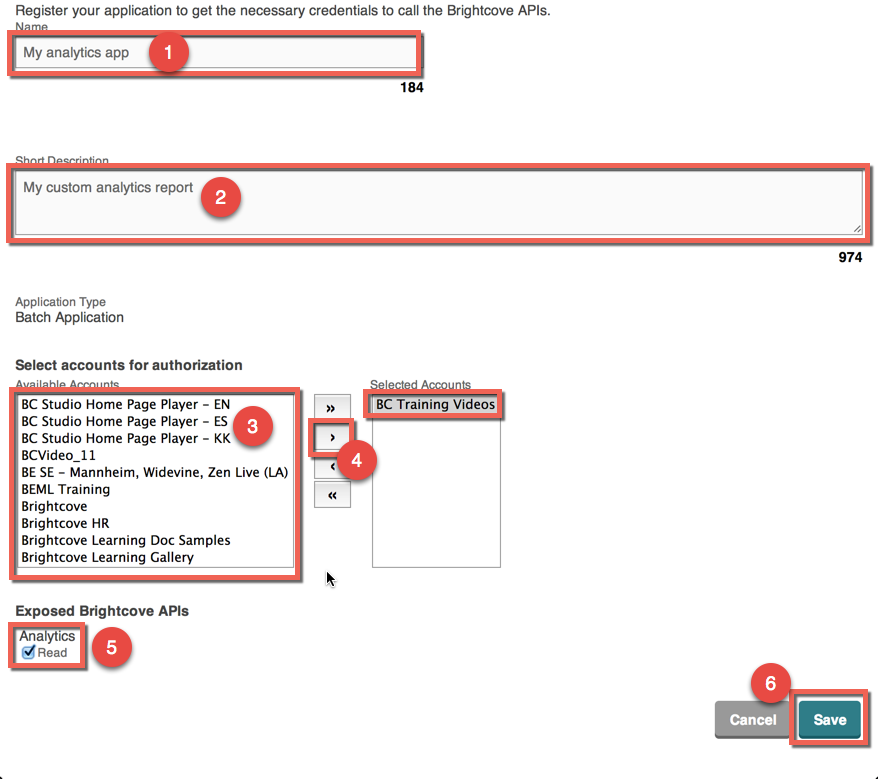
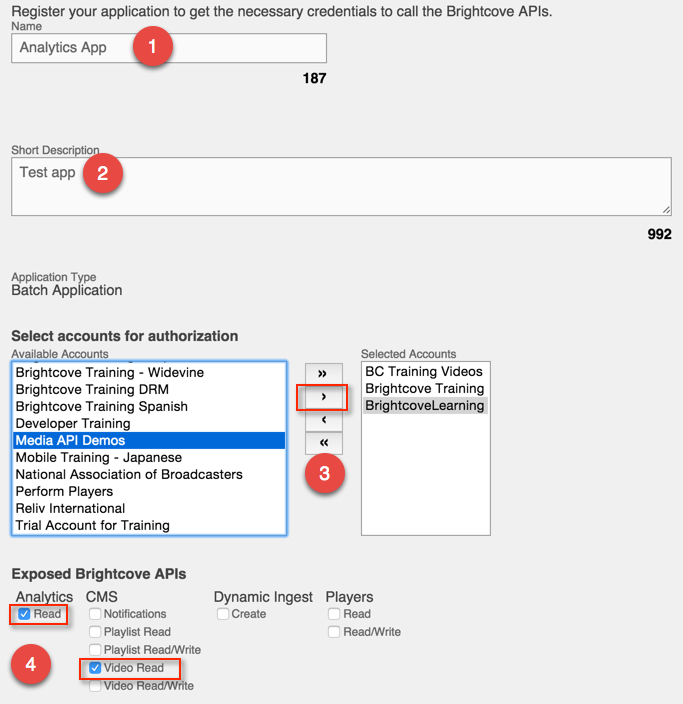
analytics api updates

diff --git a/en/video-cloud/analytics-api-v1/samples/account-level-request.html b/en/video-cloud/analytics-api-v1/samples/account-level-request.html
@@ -99,7 +99,7 @@ ga('send', 'pageview');
         request = "https://data.brightcove.com/analytics-api/videocloud/accounts/20318290001?from=1357740000000&to=1357783200000",
         chartViews = "#chartViews",
         chartEngagement = "#chartEngagement",
-        responseData = {"account" : "20318290001","metrics" : {"bytes_stored" : {"series" : {"values" : [0,0],"start" : 1357689600000,"step" : 86400000,"type" : "time"}},"bytes_in" : {"series" : {"values" : [0,0,0,0,0,0,0,0,0,0,7346996,0,0],"start" : 1357740000000,"step" : 3600000,"type" : "time"}},"video_impression" : {"series" : {"values" : [73,135,74,96,101,184,115,79,118,61,45,26,65],"start" : 1357740000000,"step" : 3600000,"type" : "time"},"alltime" : 289318},"active_media" : {"series" : {"values" : [148,149],"start" : 1357689600000,"step" : 86400000,"type" : "time"}},"bytes_player" : {"series" : {"values" : [0,0,0,0,0,0,0,0,0,0,160000000,0,0],"start" : 1357740000000,"step" : 3600000,"type" : "time"}},"video_percent_viewed" : {"series" : {"values" : [989.968559487138,3904.02470620416,1129.8510741782404,1661.1748421171305,3108.3458455128243,6338.918090625743,1641.8636978700388,569.1164779050861,1446.787564592668,883.2725377953585,920.2211538492667,833.5145951833184,1152.7269313522513],"start" : 1357740000000,"step" : 3600000,"type" : "time"},"alltime" : 4101463.512587961},"bytes_overhead" : {"series" : {"values" : [0,0,0,0,0,0,0,0,0,0,441458149,0,0],"start" : 1357740000000,"step" : 3600000,"type" : "time"}},"video_engagement" : {"series" : {"values" : [840.1528151698478,825.582705146466,804.0918282747085,787.101448274615,772.6866257821297,758.4524815593361,749.9314590967715,726.5306746782474,716.1720008169841,712.6091704306874,703.4356531009213,701.5070283455527,696.0037191050361,691.1775688038929,688.6306325357093,685.5186323912039,679.0245315745801,680.0124244525618,676.2812776155683,672.2252112376966,669.8409154954886,670.4242713690663,667.8609570305771,664.7323143899102,659.7822841107641,657.3374057235039,657.2055331076299,652.1204936937686,647.990560687092,647.8185821093373,644.431807001612,644.2730570377208,639.1429472105146,635.7928271334023,634.3194686277538,633.5721951766591,632.869774566088,632.269972916539,626.4862267182441,628.0775017694225,626.5135707238451,618.6778110288956,619.1646935179749,615.4485041436803,608.2477398011131,607.8698957138266,605.1302486689533,601.7702338345641,596.3581440201262,594.922600619195,588.7540977494484,579.5798576705943,574.0442818293918,568.5251121427591,563.7829804818925,558.7352806354704,550.3242327156133,551.1020841903194,547.5725933958827,544.50766325655,547.668558875123,544.489088139243,538.2859035155545,532.4103771698991,529.5231281701869,525.8233118954813,522.4348085023651,522.2974226398231,516.2506635527841,512.5810091622104,517.6009512715975,513.9786040759943,511.74251918039107,511.26381296148736,508.75472438544637,503.1094260459473,499.5318113259289,499.3476008460222,494.06338112773767,487.4160958456185,486.68477433499055,484.0789683599803,483.365291571174,484.2325683635288,483.815942249381,477.96686264200645,466.2989697169193,461.73321314871015,456.7596160289659,451.654134453823,444.1539182450532,438.77549861317584,433.58765916928667,419.73328720276817,404.79779415676535,385.64556561850395,359.62839039335967,321.72085334074046,268.94812977095575,195.50786078073054],"type" : "percentile"}},"video_seconds_viewed" : {"series" : {"values" : [1495,5121,1470,2473,4068,9706,2641,854,2068,1529,1476,969,1233],"start" : 1357740000000,"step" : 3600000,"type" : "time"},"alltime" : 5309575},"video_view" : {"series" : {"values" : [19,58,16,21,45,77,34,14,37,10,12,8,15],"start" : 1357740000000,"step" : 3600000,"type" : "time"},"alltime" : 70076},"bytes_out" : {"series" : {"values" : [0,0,0,0,0,0,0,0,0,0,12847543436,0,0],"start" : 1357740000000,"step" : 3600000,"type" : "time"}},"player_load" : {"series" : {"values" : [70,141,73,94,94,182,103,76,118,61,45,26,65],"start" : 1357740000000,"step" : 3600000,"type" : "time"},"alltime" : 252339}}},
+        responseData = {"item_count":1,"items":[{"account":"20318290001","active_media":null,"bytes_delivered":null,"daily_unique_viewers":null,"drm_bytes_packaged":null,"engagement_score":51.5,"licenses_served":null,"live_seconds_streamed":null,"play_rate":0.16,"player_load":44247,"video_engagement_1":6330.52,"video_engagement_25":3988.29,"video_engagement_50":3343.68,"video_engagement_75":2854.82,"video_engagement_100":2210.33,"video_impression":42743,"video_percent_viewed":352002.24,"video_seconds_viewed":691555,"video_view":6835}],"summary":{"bytes_delivered":0,"video_engagement_75":2854.82,"video_seconds_viewed":691555,"licenses_served":0,"video_engagement_25":3988.29,"video_impression":42743,"active_media":0,"drm_bytes_packaged":0,"video_engagement_50":3343.68,"video_engagement_100":2210.33,"live_seconds_streamed":0,"engagement_score":51.5,"video_engagement_1":6330.52,"player_load":44247,"video_percent_viewed":352002.24,"video_view":6835,"play_rate":0.16}},
           makeViewGraph,
           makeEngagementGraph;
         // make graph - depends on jquery.flot.js
@@ -140,14 +140,14 @@ ga('send', 'pageview');
           }
           var plot = $.plot(element, series, options);
         }
-        $response.html(BCLSformatJSON.formatJSON(responseData));
+        // $response.html(BCLSformatJSON.formatJSON(responseData));
         $startDate.append(startDate);
         $endDate.append(endDate);
         $httpRequest.html(request);
         // re-highlight pre-code blocks
-        BCLSmain.BCLhighlight();
-        makeViewGraph(responseData.metrics.video_view,chartViews,$("#chartViewsLegend"));
-        makeEngagementGraph(responseData.metrics.video_engagement,chartEngagement);
+        // BCLSmain.BCLhighlight();
+        // makeViewGraph(responseData.items.video_view,chartViews,$("#chartViewsLegend"));
+        // makeEngagementGraph(responseData.summary.video_engagement,chartEngagement);
       });
     </script>
     <script>

diff --git a/en/video-cloud/analytics-api-v1/guides/managing-api-credentials.html b/en/video-cloud/analytics-api-v1/guides/managing-api-credentials.html
@@ -63,7 +63,7 @@
 <ol>
     <li>Login to <a href="https://signin.brightcove.com/?redirect=https%3A%2F%2Fstudio.brightcove.com%2F">Video Cloud Studio</a>.</li>
     <li>Click the gear icon <img alt="" src="http://img.brightcove.com/node14056-gear-icon.png" width="17" height="17" /> in the header.</li>
-	<li>Click the Manage API Credentials link:<br /><img src="../../oauth-api/assets/manage-api-credentials.png" alt="account settings link" width="346" height="181"></li>
+	<li>Click the Manage API Credentials link:<br /><img src="../../oauth-api/assets/manage-api-credentials.png" alt="account settings link" width="173" height="90"></li>
     <li>The API Authentication page will open displaying your current client registrations.<br />
     <img alt="current client registrations" src="assets/oauth-start-screen.png" width="827" height="276"/><br />
     <p class="BCL-aside">Note:  Only the client registrations for the account you are logged into will display.</p>
@@ -71,8 +71,13 @@
     <li>Click <strong>Register New Application</strong>.</li>
     <li>Enter a <strong>Name</strong> and <strong>Short Description</strong> for the client registration.</li>
     <li>Select one or more of your  accounts for authorization. You can select multiple accounts and click <strong>&gt;</strong> to add them or click <strong>&gt;&gt;</strong> to add all accounts. Click <strong>&lt;</strong> to remove an account or <strong>&lt;&lt;</strong> to remove all accounts.</li>
-    <li>Select the API(s) and permission(s) to enable for this registration.<br />
-    <img alt="register new app" src="assets/oauth-registering-new-app.png" width="878" height="779"/></li>
+    <li>Select the API(s) and permission(s) to enable for this registration.
+    <p><p>In order to use the <a href="#videoProperties">video property filters</a>, your client credentials need to have permisssions for both:</p>
+                    <ul>
+                        <li>video-cloud/analytics/read</li>
+                        <li>video-cloud/video/read</li>
+                    </ul>
+    <img alt="register new app" src="assets/oauth-registering-new-app.png" width="683" height="704"/></li>
     <li>Click <strong>Save</strong>.</li>
     <li>A <strong>Client ID</strong> and <strong>Client secret</strong> will be returned.<br />
     <img alt="OAuth" src="assets/oauth-client-secret.png" width="601" height="452"/><br/>

diff --git a/en/video-cloud/analytics-api-v1/getting-started/migration-guide.html b/en/video-cloud/analytics-api-v1/getting-started/migration-guide.html
@@ -60,6 +60,11 @@
                     </dd>
                     <dt id="authentication">Authentication</dt>
                     <dd>Authentication via the v0 (Limited Availabilty) is no longer supported. You must get access tokens for the Analytics API via the <a href="//docs.brightcove.com/en/video-cloud/oauth-api/getting-started/oauth-api-overview.html">Brightcove OAuth Service</a>. See <a href="../guides/managing-api-credentials.html">Managing API Credentials</a> for information on obtaining client credentials for the Analytics API.
+                    <p>In order to use the <a href="#videoProperties">video property filters</a>, your client credentials need to have permisssions for both:</p>
+                    <ul>
+                        <li>video-cloud/analytics/read</li>
+                        <li>video-cloud/video/read</li>
+                    </ul>
                     <p class="BCL-aside">Note: you can also use the OAuth service to authenticate calls to the v0 API. You may want to test this with working apps before migrating to v1, to make sure you have the authentication implemented correctly.</p></dd>
                     <dt id="rollups">Rollups</dt>
                     <dd>Account rollup calls are no longer supported. If you were using rollups to get detailed engagement information on recent video views, you will now be able to obtain these through the new <a href="#engagementEndpoints">engagement endpoints</a>.</dd>
